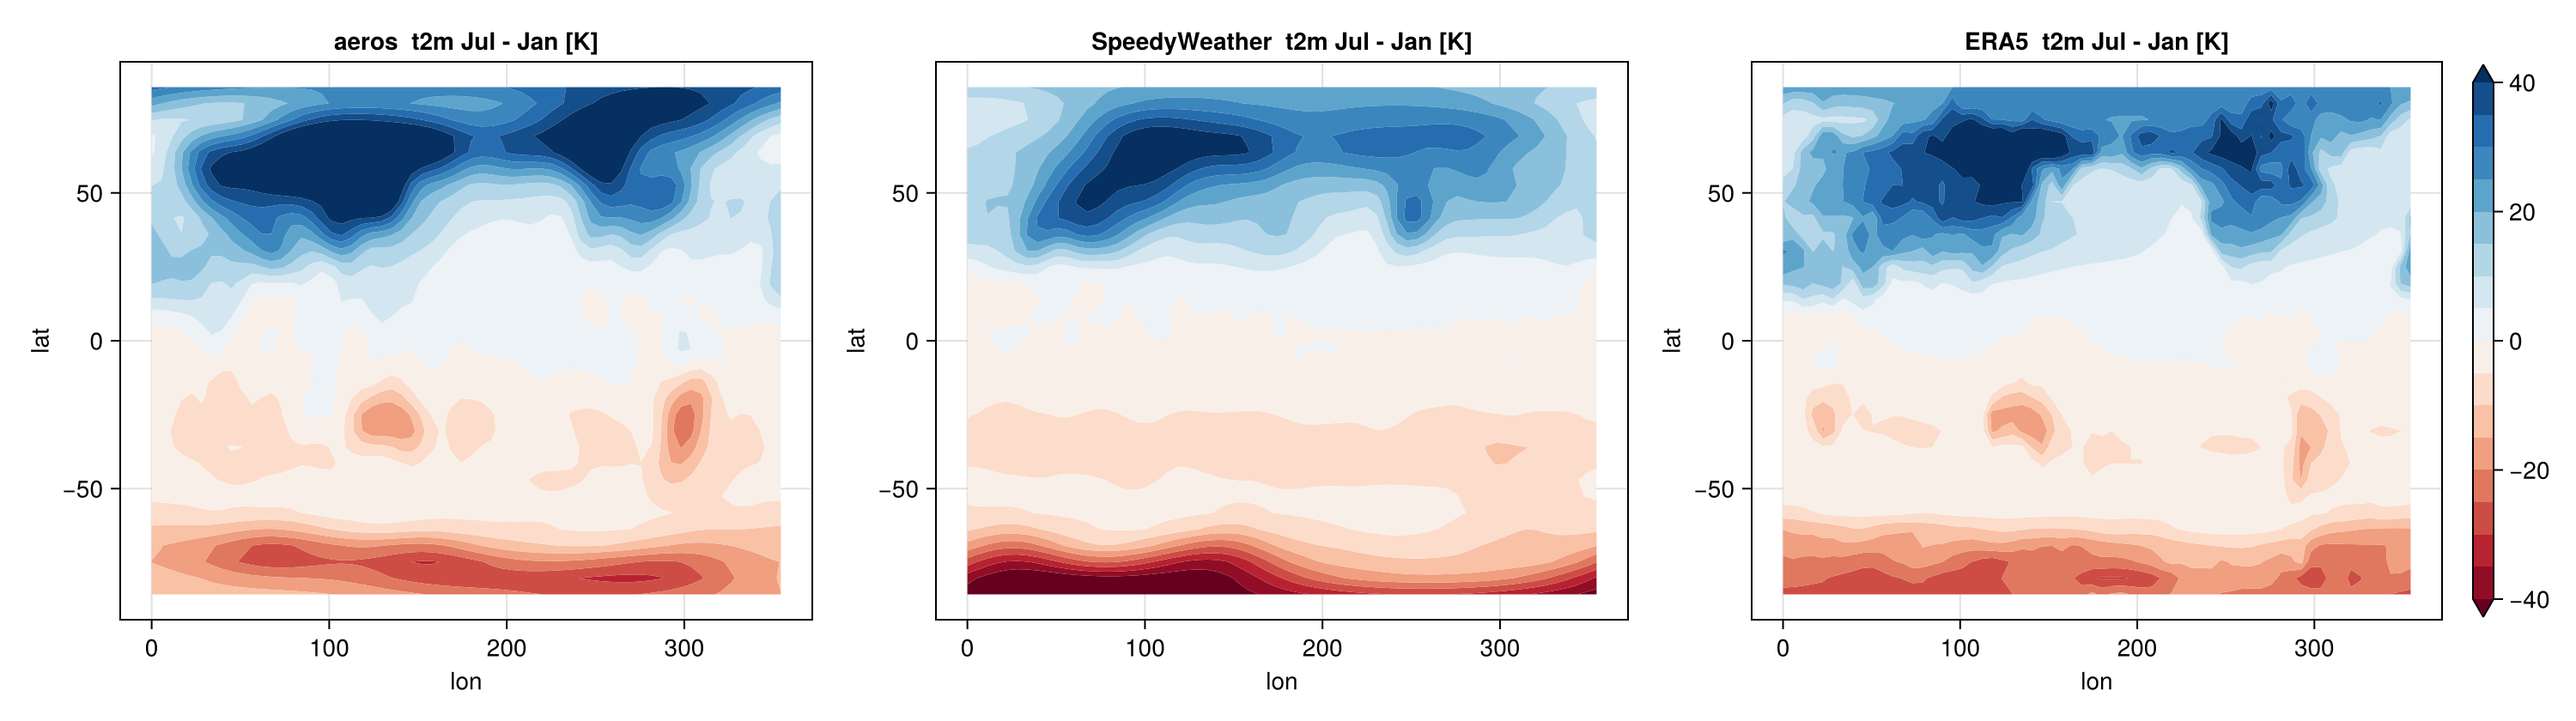
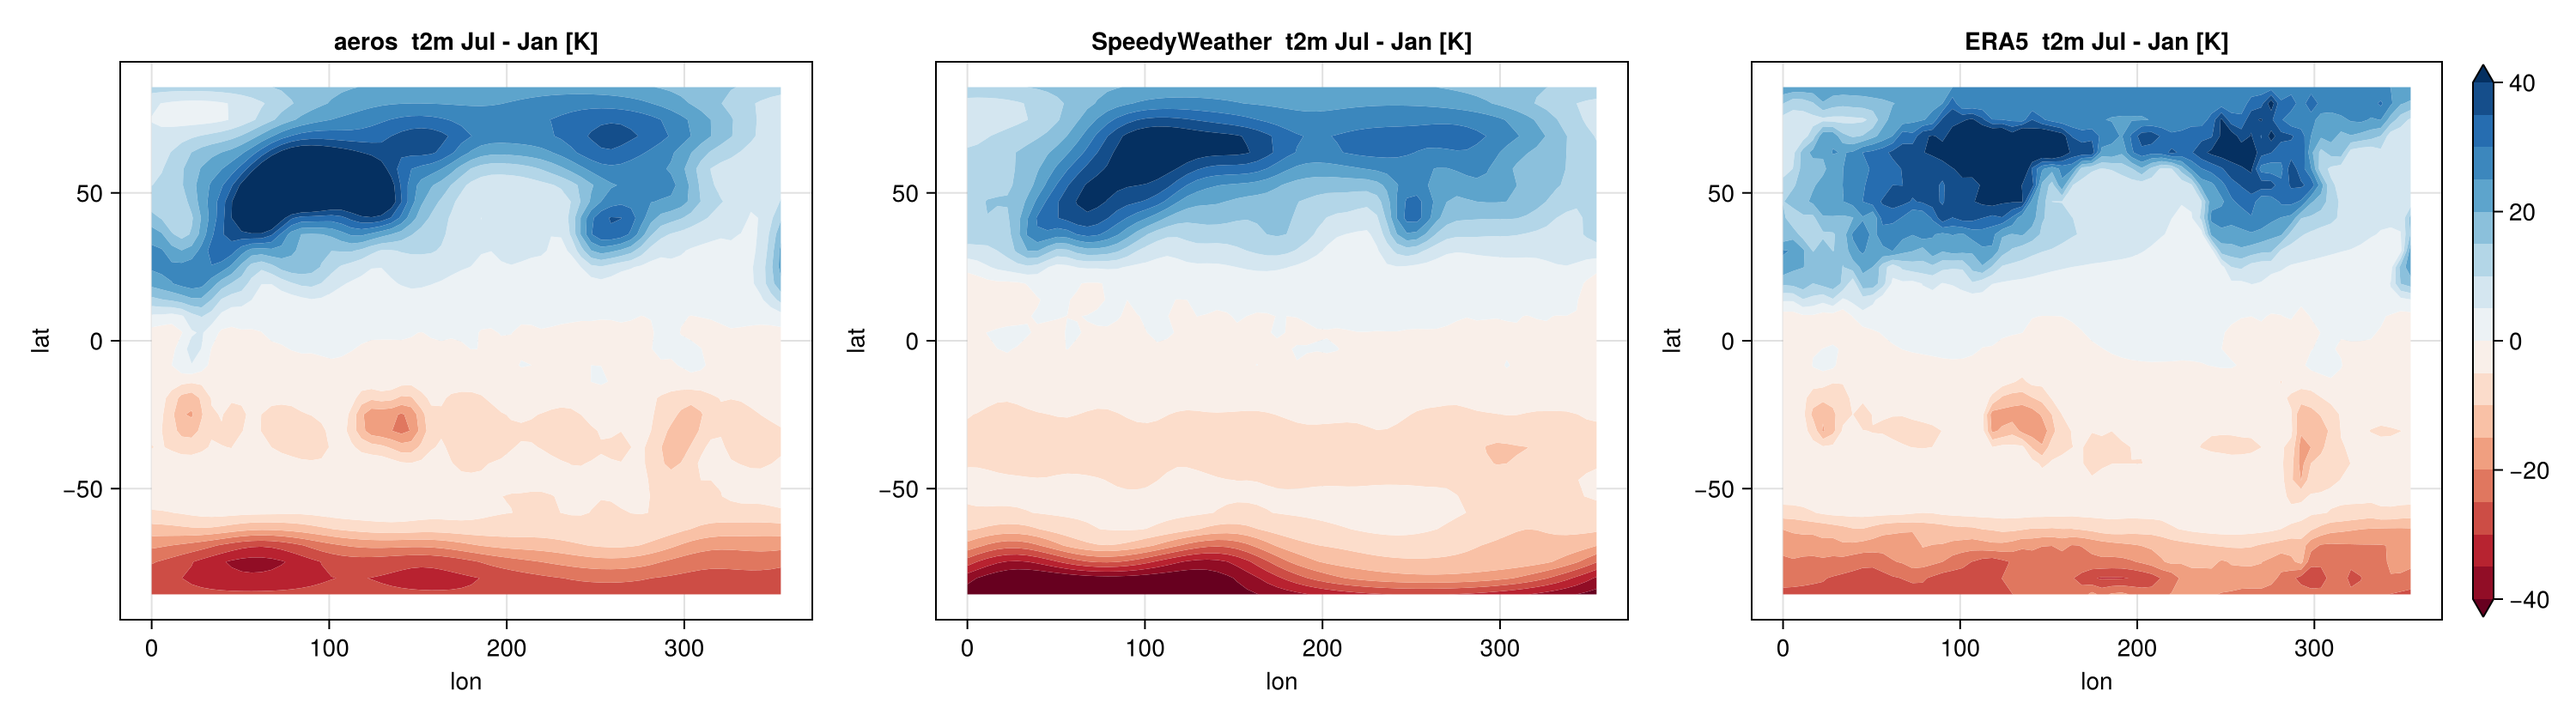
clouds: re-balance after the surface-exchange fix — cld_rhc_top 1.03 (high cloud back below the lid, LW CRE +7 -> +21), cld_lwc 0.031e-3 (TOA +0.1, CRE -55/+21, P 3.1); L6 climatology, figures, hand-off

Changed region(s): [[0.031, 0.4952, 0.31, 0.8357], [0.031, 0.0929, 0.31, 0.4333], [0.279, 0.3405, 0.31, 0.4024]]

diff --git a/docs/m2_handoff.md b/docs/m2_handoff.md
@@ -4,10 +4,14 @@
 
 ### Where the model is
 
-All on `main` through **9e7b227**, 26/26 tests (`test_transport` now has a direction test). Same
-production configuration as below (real-Earth T21L6, dt 3600, ~2700 SYPD); the harness namelist
-`mwm/D_realearth/aeros_realearth_T21L6.nml` is unchanged, every knob that moved is a default in
-`input/rce_defaults.nml`. Climatology: `docs/refs/realearth_metrics_2026-09-07_L6.md`.
+All on `main`: 9e7b227 (morning), then **6b8b55a** (surface exchange: Monin-Obukhov unstable
+branch) and the cloud re-balance commit after it (evening; see "Update 2026-09-07 (evening)"
+below). 25/26 tests: `test_ecckd` fails 3 SW checks against SESAM since the near-IR re-anchoring
+(9e7b227) -- the test's SESAM reference, not the model; decide whether to loosen the 3 % or
+re-anchor SESAM's copy. Same production configuration (real-Earth T21L6, dt 3600, ~2700 SYPD);
+the harness namelist `mwm/D_realearth/aeros_realearth_T21L6.nml` is unchanged, every knob that
+moved is a default in `input/rce_defaults.nml`. Climatology:
+`docs/refs/realearth_metrics_2026-09-07_L6_surface.md` (morning state: `..._2026-09-07_L6.md`).
 
 ### What changed on 2026-09-07 (in order; the detailed chain is the two "Update 2026-09-07"
 entries under the land-calibration section below)
@@ -57,13 +61,30 @@ land 50 vs ERA5 101/41), SH 20.5, TOA −5.6 W/m², CRE −47/+7. A pinned `c_h 
 the same picture (sweep 1.0/1.5/2.0e-3; 1.5 overshoots, P 3.7). Next: re-balance the clouds toward
 LW CRE +22 (the deficit that was always there; TOA −5.6 now) — separate commit. What remains after
 the warming is the extratropical warm σ 0.365 (+7 at 30–45N) / cold 0.56–0.86 pair, a
-static-stability item that grows with the warming. `test_ecckd` fails 3 SW checks against SESAM
+static-stability item that grows with the warming.
+
+**Cloud re-balance (next commit).** `cld_rhc_top` 1.40 → **1.03** (threshold 0.96 in the lid, 0.84
+at 365 hPa: high cloud back below the lid, LW CRE +7 → +21), `cld_lwc` 0.035e-3 → **0.031e-3**
+(TOA). Sweep (10 runs, `mwm/D_realearth/diag/S*,P*`, `summary.sh`): `cld_iwc` hardly matters
+(0.010–0.020e-3: LW ±1); rhc_top 1.00 gives LW +26 / SW −60; lwc moves TOA by ~1 W/m² per
+0.001e-3. Net CRE cannot reach ERA5's −24 while the clear-sky OLR is 257 vs 264 (clear-sky net
++33 vs +25): the clouds must supply −33. Result (3 yr, `..._L6_surface.md`): TOA +0.1, CRE
+−55/+21, cover 0.57, P 3.11 (2.9), LH 90 (84; ocean 108/land 48 vs 101/41), SH 16.5, column
+water 25.3 (24.5). T bias annual: tropics +3.6/+1.2/−0.3/−0.8/+0.5 K at σ 0.36–0.96, 45–60N
++2.4/−2.2/−2.7/−2.0/−1.2, 60–75N −1.9/−1.7/−1.2/−0.7/−0.1; DJF 69N −2.3/−1.6/−1.4/−1.3/−0.7 (was
+−4.1/−8.0/−6.1/−5.1/−3.8 in the morning) — the winter-cap cold bias (deficit 2's T part) is
+largely gone with it. NH-land t2m amplitude 33.1 (ERA5 33.6, was 35.2); Z500* 101.6 (1-yr noise);
+jet 56.9 m/s. `test_ecckd` fails 3 SW checks against SESAM
 (surface down SW 359 vs 384) since the near-IR re-anchoring in 9e7b227 — the test's SESAM
 reference, not the model.
 
-### Known deficits, in the order to attack them
+### Known deficits, in the order to attack them (as of the evening; deficit 1 below is RESOLVED
+except for its 300 hPa part — see the evening update)
 
-1. **Cold lower troposphere / warm 300 hPa.** 700–850 hPa is 3–7 K cold at all latitudes and
+0. **Warm σ 0.365 / cold 0.56–0.86 outside the tropics** (annual +7.7 at 30–45N over −3.5/−4.2 at
+   30–45S; tropics +3.6 at 0.365): the 360–560 hPa layer is too stable (dT/dlnp 33–38 vs ERA5
+   45–51). Static-stability structure; grew with the warming. Next.
+1. **~~Cold lower troposphere~~ / warm 300 hPa.** (Cold part resolved 2026-09-07 evening.) 700–850 hPa is 3–7 K cold at all latitudes and
    seasons, 300 hPa 5–8 K warm outside the tropics (annual, `docs/refs/..._2026-09-07_L6.md`).
    Not vertical resolution (L8/L12 identical at dt 1800), not the boundary layer, and only 1 K
    of it was the SW gap. Column water 20.6 vs 24.5 mm with P and E right → moisture residence

diff --git a/docs/refs/realearth_metrics_2026-09-07_L6_surface.md b/docs/refs/realearth_metrics_2026-09-07_L6_surface.md
@@ -1,0 +1,32 @@
+# aeros vs SpeedyWeather vs ERA5, real-Earth T21 (aeros L6, end of 2026-09-07 evening: Monin-Obukhov surface exchange + cloud re-balance)
+
+aeros 3 yr (2 yr spin-up + 1 yr monthly), dt = 3600, 2694 SYPD (97 s). Commit after 6b8b55a (surface) + this cloud commit. Defaults: `cld_rhc_top = 1.03`, `cld_lwc = 0.031e-3`, `cld_iwc = 0.014e-3`, `vert_vanleer = .true.`, `conv_rh_ref = 0.6`, `conv_rh_ref_bl = 0.85`, bulk coefficients from the log law with the true skin-air static-energy jump and the Businger-Dyer unstable branch.
+
+Year-3 global means: TOA net +0.1 W/m², OLR 236.3 (ERA5 242), clear-sky OLR 257.4 (264), clear-sky absorbed 291, CRE SW −54.8 / LW +21.2 (ERA5 −46 / +22), cloud cover 0.57 (0.63), P = E = 3.11 mm/day (2.9), LH 90 (84; ocean 108 / land 48 vs ERA5 101 / 41), SH 16.5 (17; ocean 12 / land 27 vs 12 / 29), column water 25.3 mm (24.5).
+
+Zonal T bias vs ERA5 at the same pressure (annual, K; bands 60–75S / 30–45S / 15S–15N / 30–45N / 45–60N / 60–75N; `mwm/D_realearth/diag/tbias_vs_era5.py`):
+
+```
+sigma        60-75S     30-45S    15S-15N     30-45N     45-60N     60-75N
+0.134        -19.6       12.5       20.8       17.4       -5.9      -21.3
+0.365         -2.5        3.0        3.6        7.7        2.4       -1.9
+0.563         -1.4       -3.5        1.2       -0.5       -2.2       -1.7
+0.728         -0.7       -4.2       -0.3       -3.2       -2.7       -1.2
+0.860          0.6       -1.9       -0.8       -3.3       -2.0       -0.7
+0.959         -0.2       -0.8        0.5       -1.5       -1.2       -0.1
+```
+
+DJF: 69N-band (60–75N) bias −2.3/−1.6/−1.4/−1.3/−0.7 K at σ 0.36–0.96 (start of day −4.1/−8.0/−6.1/−5.1/−3.8); 30–45N −0.9/−4.0/−3.9/−2.9 at σ 0.56–0.96; tropics +3.4 at σ 0.365, within 1 K below. Remaining: warm σ 0.365 outside the tropics (+7.7 at 30–45N annual) over a cold 0.56–0.86 at 30–45S/N (−3 to −4): the static-stability item. Lid unchanged (−20 K polar, +17..+21 subtropics/tropics).
+
+aeros: `mwm/D_realearth/output/aeros_realearth_T21L6.nc` · SW: `mwm/D_realearth/output/sw_realearth_T21L8.nc`
+
+| metric | aeros | SpeedyWeather | ERA5 |
+|---|---|---|---|
+| global-mean precip [mm/day] | 3.1 | 3.3 | 2.9 |
+| global-mean T, top level / 70 hPa [K] | 218.4 | 235.2 | 206.6 |
+| global-mean T, lowest level / 2 m [K] | 285.0 | 278.3 | 287.5 |
+| max annual zonal-mean u [m/s] | 56.9 | 63.0 | 33.7 |
+| max annual [u] at 200 hPa [m/s] | 47.1 | 41.2 | 31.3 |
+| DJF NH Z500* RMS 20-80N [m] | 101.6 | 68.3 | 76.1 |
+| t2m |Jul-Jan|, NH 40-70N land [K] | 33.1 | 29.2 | 33.6 |
+| throughput [SYPD, 10 threads] | 2694.1 | 708.7 | NaN |
